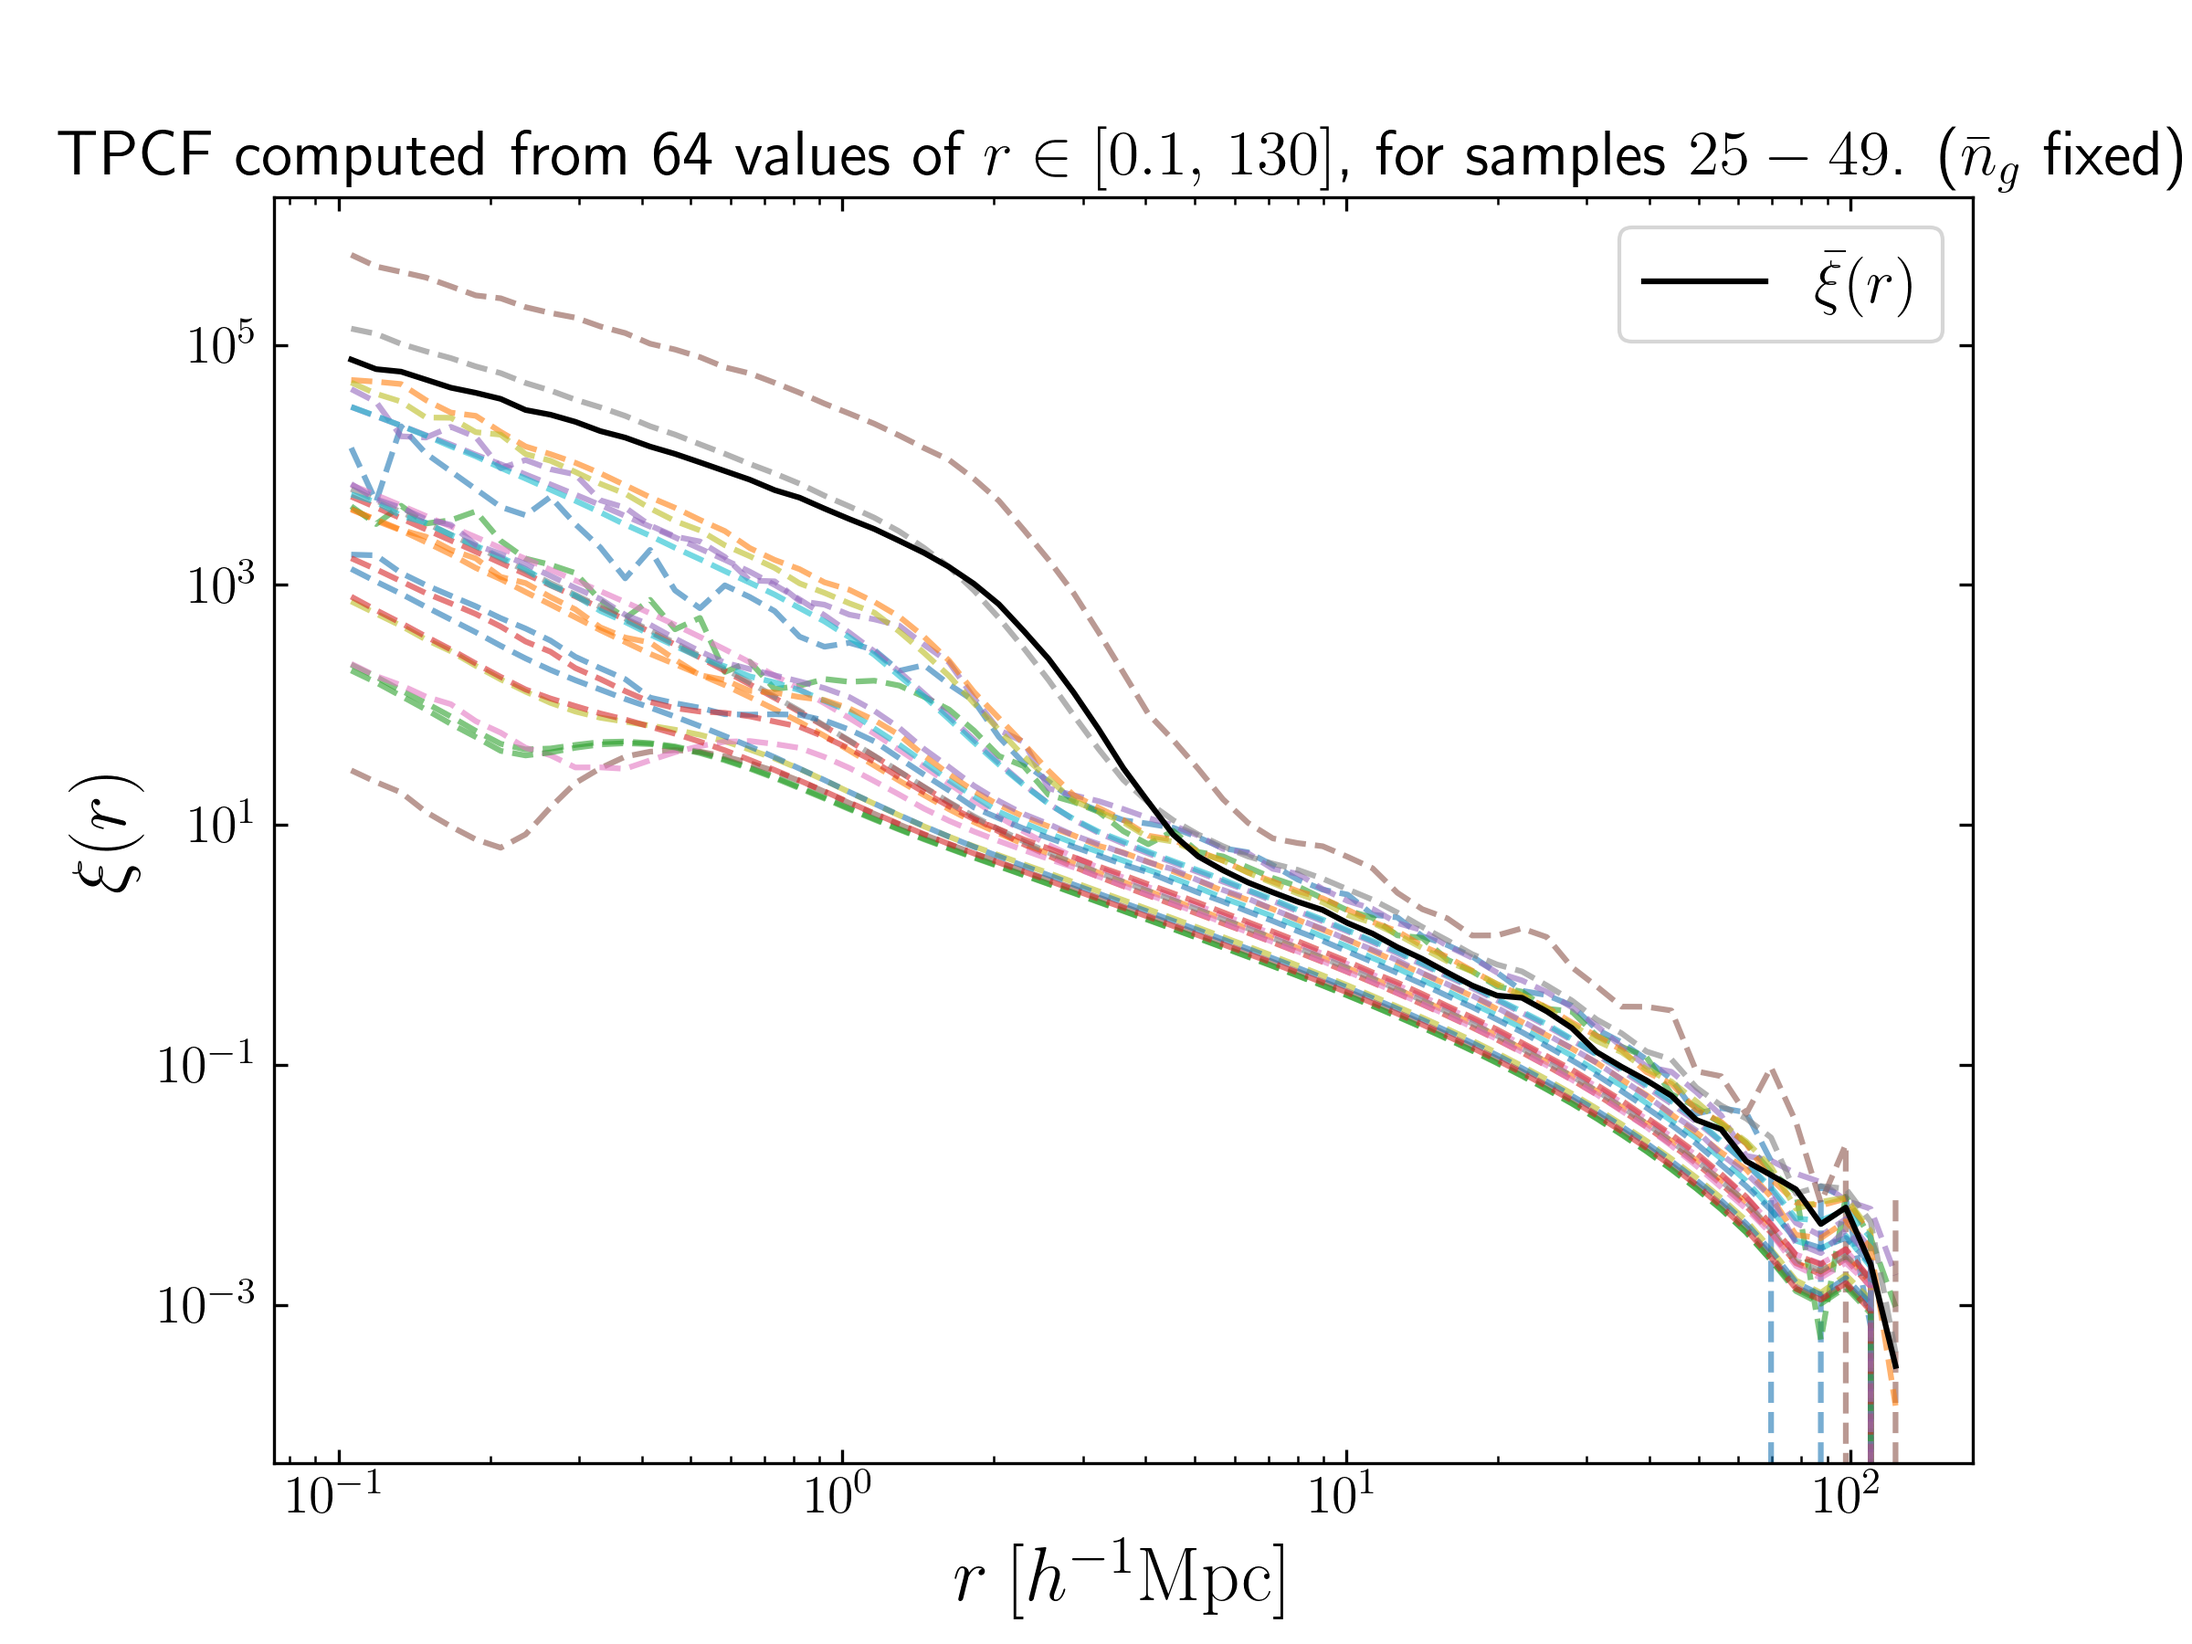
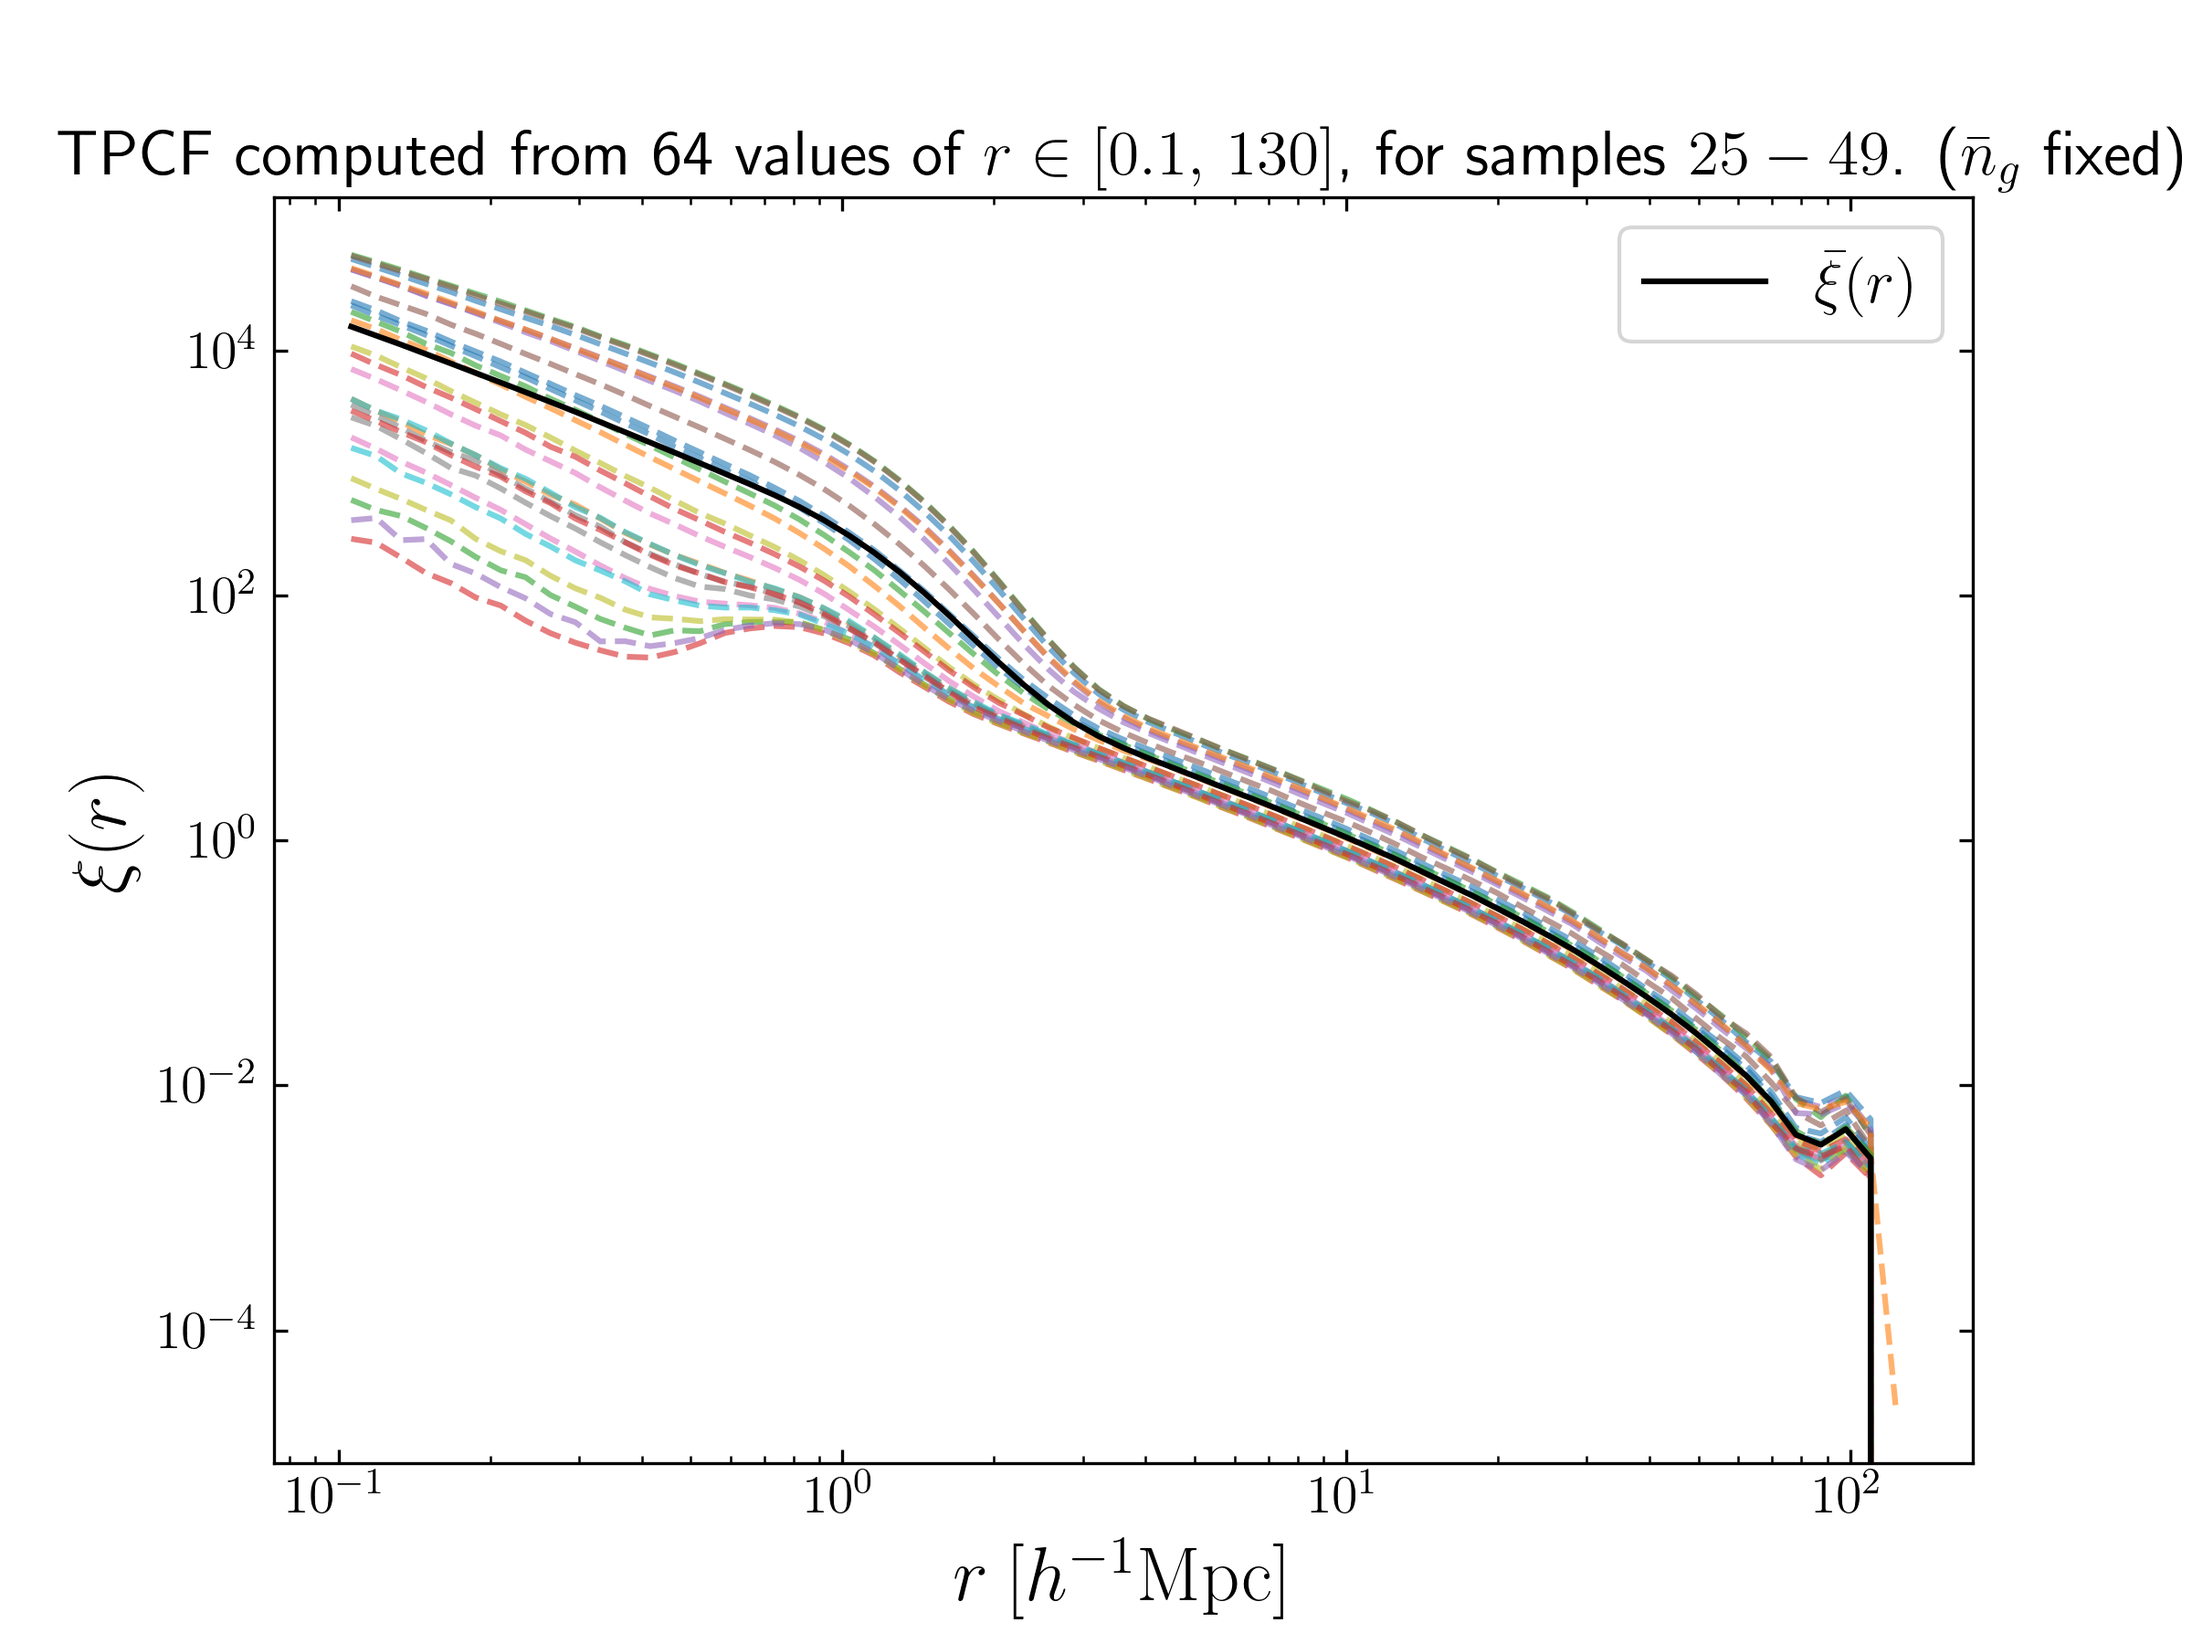
stupid bug. Forgot to load new catalogues, so I computed TPCF's with the old data...

diff --git a/HaloModel/HOD_emulation_LCDM/compute_tpcf.py b/HaloModel/HOD_emulation_LCDM/compute_tpcf.py
@@ -90,10 +90,17 @@ def compute_TPCF_train_halocats_pycorr(n_bins=128, ng_fixed=False):
      - halo_file['nodex'].keys(): catalogue data, e.g. ['host_radius', 'x', 'y', 'z', 'v_x', ...]
     """
 
-    halo_file = h5py.File(f"{INDATAPATH}/halocat_train.hdf5", "r")
+    halocat_fname = f"halocat_train"
+    if ng_fixed:
+        halocat_fname += "_ng_fixed"
+
+    halo_file = h5py.File(f"{INDATAPATH}/{halocat_fname}.hdf5", "r")
     N_nodes = len(halo_file.keys())
+    r_bin_edges = np.logspace(np.log10(0.1), np.log10(130), n_bins)
+    
     print(f"Computing TPCF for {N_nodes} nodes...")
     t0 = time.time()
+    
     for node_idx in range(N_nodes):
         node_catalogue = halo_file[f"node{node_idx}"]
         x = np.array(node_catalogue['x'][:])
@@ -102,7 +109,6 @@ def compute_TPCF_train_halocats_pycorr(n_bins=128, ng_fixed=False):
 
         t0i = time.time()
 
-        r_bin_edges = np.logspace(np.log10(0.1), np.log10(130), n_bins)
         result = TwoPointCorrelationFunction(
             mode='s',
             edges=r_bin_edges,
@@ -118,15 +124,15 @@ def compute_TPCF_train_halocats_pycorr(n_bins=128, ng_fixed=False):
             outfile = f"{OUTDATAPATH}/TPCF_train_node{node_idx}_{n_bins}bins_ng_fixed.npy"
         else:
             outfile = f"{OUTDATAPATH}/TPCF_train_node{node_idx}_{n_bins}bins.npy"
-        if Path(outfile).exists():
-            print(f"File {outfile} already exists, skipping...")
-            continue
+        # if Path(outfile).exists():
+            # print(f"File {outfile} already exists, skipping...")
+            # continue
         np.save(outfile, np.array([r, xi]))
 
 
     print(f"Total time elapsed: {time.time() - t0:.2f} s")
 
-
+# def compute_TPCF_halomodel()
 
 # compute_TPCF_fiducial_halocat(n_bins=64, threads=128)
 # compute_TPCF_fiducial_halocat_halotools(n_bins=64, threads=128)

diff --git a/HaloModel/HOD_emulation_LCDM/read_HOD.py b/HaloModel/HOD_emulation_LCDM/read_HOD.py
@@ -70,6 +70,24 @@ def read_hdf5_files(ng_fixed=False):
     print(f" test:  {np.mean(ng_list[1]):.4e} +/- {np.std(ng_list[1]):.4e}")
     print(f" val:   {np.mean(ng_list[2]):.4e} +/- {np.std(ng_list[2]):.4e}")
 
+def print_HOD_parameters(flag, ng_fixed=True, print_every_n=5):
+    HOD_params_path = OUTFILEPATH
+    if ng_fixed:
+        outfile = f"{HOD_params_path}/HOD_parameters_ng_fixed_{flag}.csv"
+    else:
+        outfile = f"{HOD_params_path}/HOD_parameters_{flag}.csv"
+    df = pd.read_csv(outfile)
+    print("     sigma_logM | alpha  | kappa  | log10M1 ")
+    for i in range(len(df)):
+        sigma_logM = df["sigma_logM"][i]
+        alpha = df["alpha"][i]
+        kappa = df["kappa"][i]
+        log10M1 = df["log10M1"][i]
+        print(f"node{i}: {sigma_logM:8.4f} | {alpha:.4f} | {kappa:.4f} | {log10M1:.4f}")
+        if (i+1) % print_every_n == 0:
+            input()
+            print("     sigma_logM | alpha  | kappa  | log10M1 ")
+
 
 
 def read_csv_original():
@@ -131,10 +149,12 @@ def make_csv_files():
         
         fff.close()
 
-print("No constraints on ng:")
-read_hdf5_files()
-print()
-print("Constraints on ng:")
-read_hdf5_files(ng_fixed=True)
+# print("No constraints on ng:")
+# read_hdf5_files()
+# print()
+# print("Constraints on ng:")
+# read_hdf5_files(ng_fixed=True)
 # read_csv_original()
 # read_HOD_fiducial_hdf5()
+
+print_HOD_parameters("train", ng_fixed=True)

diff --git a/HaloModel/HOD_emulation_LCDM/plot_tpcf.py b/HaloModel/HOD_emulation_LCDM/plot_tpcf.py
@@ -141,7 +141,6 @@ def plot_xi_over_xi_bar(interval=5, n_bins=128):
     # ax.plot(r, xi_mean, color='k', label=r"$\bar{\xi}(r)$")
     plt.close()       
 
-   
 
 
 
